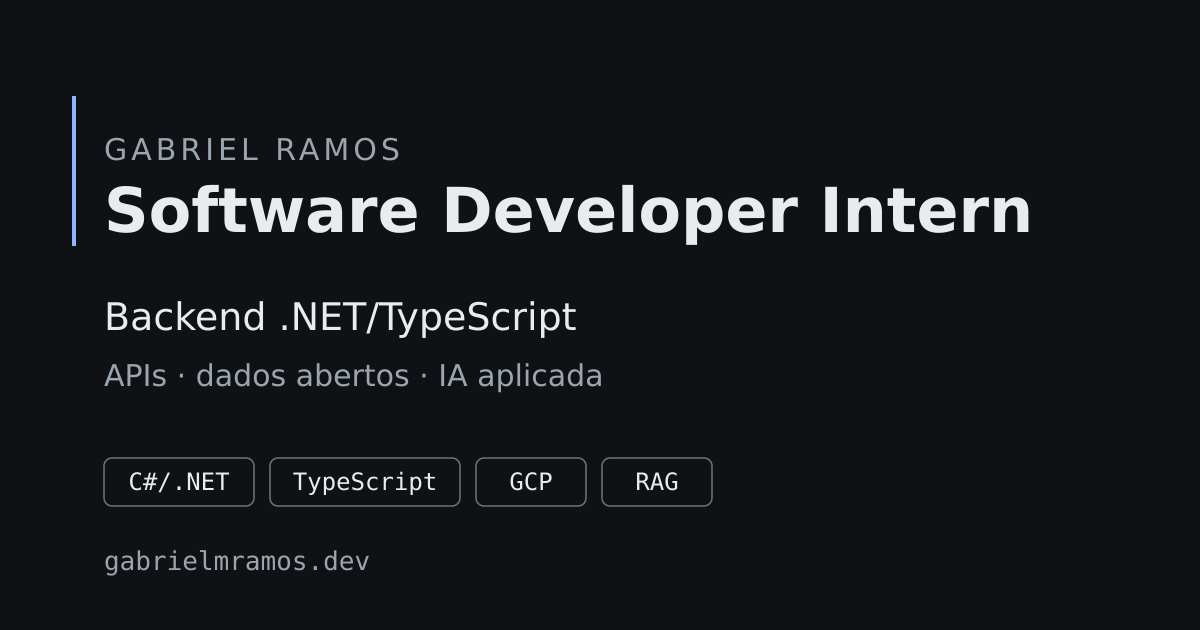
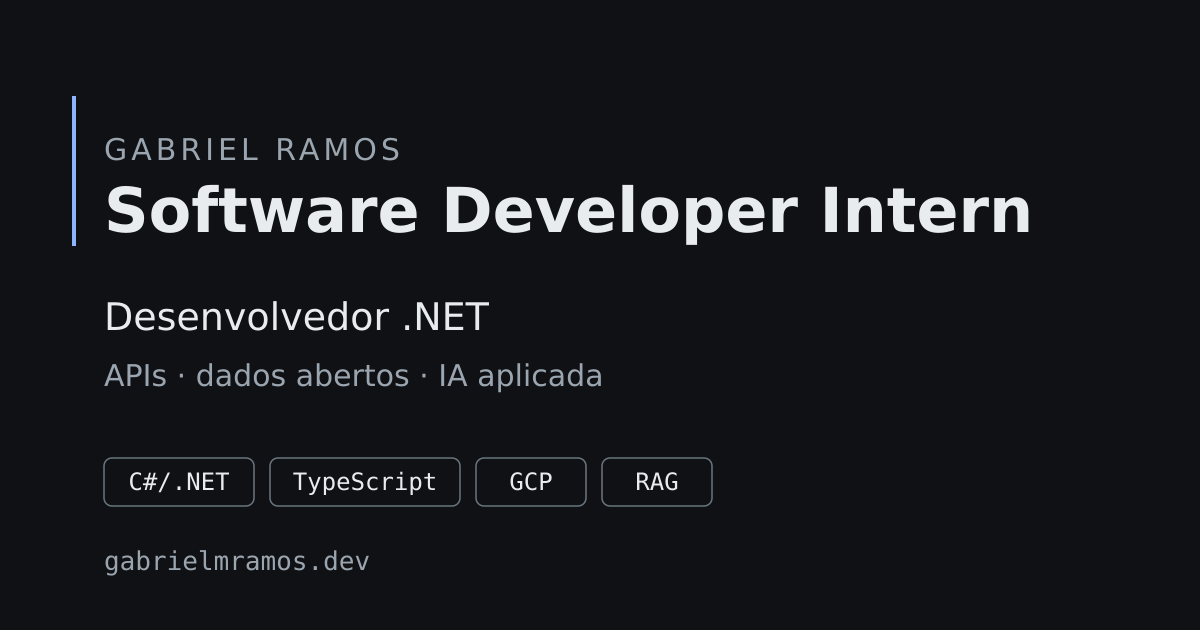
content(home): posicionamento A (Desenvolvedor .NET), Sobre comprovável, microcopy e título com palavras-chave
- Hero: Desenvolvedor .NET · APIs, dados abertos e IA aplicada; TypeScript na linha de stack; opção B em comentário
- Sobre: sem 'sistemas distribuídos'; Gemini e Claude via Vertex AI, como na Experiência
- Critério único: back-end em PT e backend em EN
- Contagem de work items com período de referência, em src/data/site.ts
- Title da home e imagem OG atualizados

Changed region(s): [[0.0925, 0.4825, 0.4933, 0.5429]]

diff --git a/src/i18n/ui.ts b/src/i18n/ui.ts
@@ -23,7 +23,7 @@ export const ui = {
     skip: 'Pular para o conteúdo',
     back: 'Voltar',
     siteDescription:
-      'Gabriel Ramos — Software Developer Intern na PRODAM (Prefeitura de São Paulo). Backend .NET/TypeScript, APIs, dados abertos e IA aplicada.',
+      'Gabriel Ramos — Software Developer Intern na PRODAM (Prefeitura de São Paulo). Desenvolvedor .NET: APIs, dados abertos e IA aplicada.',
     nav: {
       home: 'Início',
       projects: 'Projetos',
@@ -46,7 +46,7 @@ export const ui = {
     skip: 'Skip to content',
     back: 'Back',
     siteDescription:
-      'Gabriel Ramos — Software Developer Intern at PRODAM (São Paulo City Hall). .NET/TypeScript backend, APIs, open data and applied AI.',
+      'Gabriel Ramos — Software Developer Intern at PRODAM (São Paulo City Hall). .NET developer: APIs, open data and applied AI.',
     nav: {
       home: 'Home',
       projects: 'Projects',

diff --git a/src/data/site.ts b/src/data/site.ts
@@ -17,5 +17,8 @@ export const site = {
   // Currículos. Enquanto `en` for null, a versão em inglês do site aponta para o PDF em português, com o rótulo "(PT)".
   // TODO(gabriel): gere o currículo em inglês, salve em public/curriculo-en.pdf (já existe um arquivo provisório lá)
   // e troque `en` por '/curriculo-en.pdf'.
+  // Itens entregues na PRODAM. Atualize `count` e `until` juntos: o texto sempre mostra o período a que o número se refere.
+  prodamWorkItems: { count: 70, from: '2026-03', until: '2026-11' },
+
   resume: { pt: '/curriculo.pdf', en: null as string | null },
 } as const;

diff --git a/DESIGN.md b/DESIGN.md
@@ -6,7 +6,7 @@ Estado: **implementado na branch `feat/rebrand`, aguardando validação visual d
 
 ## Briefing
 
-- **Assunto:** portfólio de um desenvolvedor backend júnior (.NET e TypeScript).
+- **Assunto:** portfólio de um desenvolvedor .NET júnior (APIs, dados abertos e IA aplicada).
 - **Público:** recrutadores e líderes técnicos, no Brasil agora e no exterior depois.
 - **Função principal:** provar julgamento de engenharia em poucos minutos: o que foi decidido, por quê, o que foi medido e o que ainda não foi verificado.
 - **Atributo de marca:** rigoroso.
@@ -91,7 +91,7 @@ DESKTOP
 ┌ lateral ──────┬ conteúdo ─────────────────────────────┐
 │ Gabriel Ramos │ Gabriel Ramos                         │
 │ Developer     │ Software Developer Intern             │
-│ Intern        │ Backend .NET/TypeScript · APIs, ...   │
+│ Intern        │ Desenvolvedor .NET · APIs, ...     │
 │               │                                       │
 │ Projetos      │ Projetos                              │
 │ Experiência   │ ─────────────────────────────────     │
